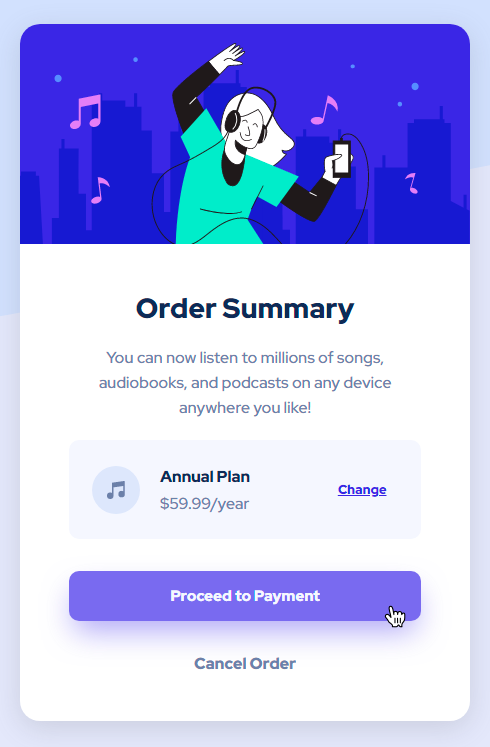
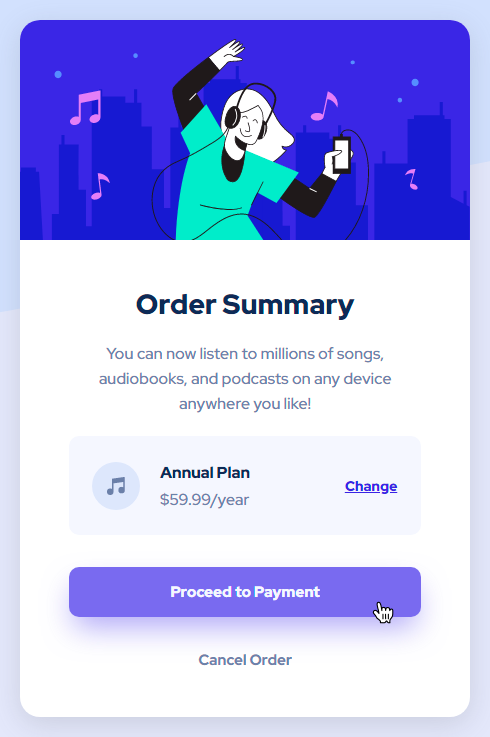
:sparkles: Change some font sizes

diff --git a/styles/style.css b/styles/style.css
@@ -86,10 +86,10 @@ strong {
 }
 
 a {
-  font-size: 1.3rem;
+  font-size: 1.4rem;
   font-weight: 900;
   color: var(--right-blue);
-  margin-left: 5.2rem;
+  margin-left: 4.8rem;
 }
 
 a:hover {
@@ -115,11 +115,11 @@ button[type='submit'] {
 
 button[type='reset'] {
   font-weight: 700;
-  font-size: 1.6rem;
+  font-size: 1.5rem;
   border: none;
   color: var(--desaturated-blue);
   background-color: transparent;
-  margin-top: 2.2rem;
+  margin: 2.3rem 3rem 0;
 }
 
 button {

diff --git a/styles/media.css b/styles/media.css
@@ -30,7 +30,7 @@
   }
   
   a {
-    margin-left: 9.8rem;
+    margin-left: 9.5rem;
   }
   
   button[type='submit'] {
@@ -38,6 +38,6 @@
   }
   
   button[type='reset'] {
-    margin-top: 3.2rem;
+    margin-top: 3.3rem;
   }
 }
